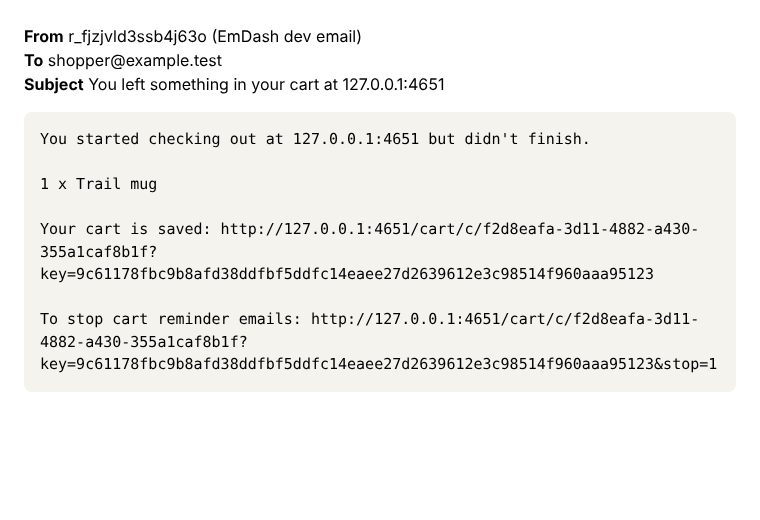
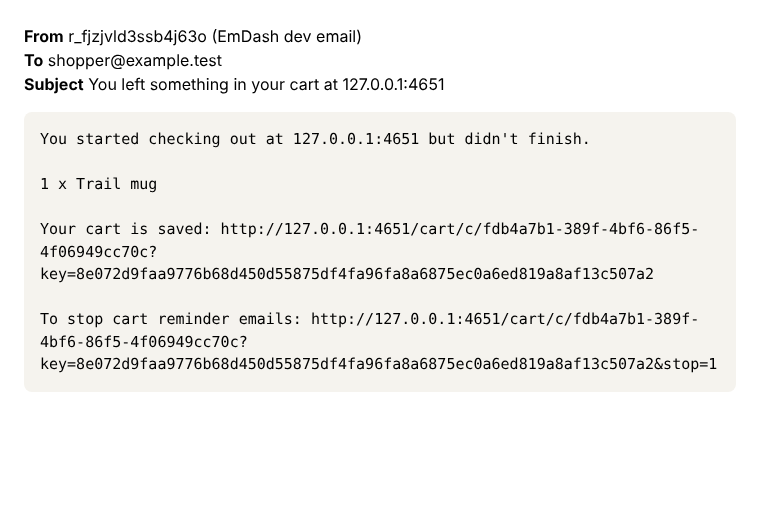
Keep the cart email's key dead for a cart made again under the same id
The emailed key now also keeps the checkout attempt the email was about,
and is accepted only while its cart still holds that attempt. A cart the
shopper's own key makes again after cleanup never revives it. The store
proof shows the old link opening an empty cart after that.

Claude-Session: https://claude.ai/code/session_01Vn8pk81E5mAR87Rnvjkb9R

diff --git a/src/features/checkout/capability.ts b/src/features/checkout/capability.ts
@@ -54,7 +54,7 @@ function parsePresentedCapability(token: string): { capabilityId: string; secret
 
 export async function mintGuestCapability(
   runtime: GuestCheckoutRuntime,
-  emailHash?: string,
+  email?: Pick<GuestCapabilityRecord, "emailHash" | "emailAttempt">,
 ): Promise<{ record: GuestCapabilityRecord; presentation: GuestCapabilityPresentation }> {
   const siteBinding = requireTrustedSiteOrigin(runtime);
   const capabilityId = (runtime.host.createCapabilityId ?? (() => crypto.randomUUID()))();
@@ -70,7 +70,7 @@ export async function mintGuestCapability(
     verifier: await hashGuestCapabilitySecret(secret),
     siteBinding,
     createdAt: new Date((runtime.host.now ?? (() => Date.now() / 1000))() * 1000).toISOString(),
-    ...emailHash ? { emailHash } : {},
+    ...email,
   };
   if (!(await runtime.capabilities.compareAndSet(capabilityId, null, record)).applied) {
     throw new GuestCheckoutError("CONTENTION");
@@ -110,9 +110,11 @@ export async function authorizeGuestCapability(
   if (!timingSafeEqual(stored.verifier, await hashGuestCapabilitySecret(secret))) {
     throw new GuestCheckoutError("CAPABILITY_DENIED");
   }
-  // The cart email's key lasts only as long as its cart, and never brings back a deleted one.
-  const cart = stored.emailHash && (await runtime.carts.getVersioned(stored.cartId))?.value;
-  if (stored.emailHash && !(cart && cart.cart && (runtime.host.now?.() ?? Date.now() / 1000) < +cart.cartExpires!)) {
+  // The cart email's key lasts only while its cart lives and still holds the emailed checkout: never past the
+  // cart's 30 days, and never for a cart made again under the same id.
+  const cart = stored.emailHash ? (await runtime.carts.getVersioned(stored.cartId))?.value : null;
+  if (stored.emailHash && !(cart?.cart && (runtime.host.now?.() ?? Date.now() / 1000) < +cart.cartExpires! &&
+    cart.attempts.some(attempt => attempt.attemptId === stored.emailAttempt))) {
     throw new GuestCheckoutError("CAPABILITY_DENIED");
   }
   return stored;

diff --git a/src/features/checkout/remind.ts b/src/features/checkout/remind.ts
@@ -30,7 +30,7 @@ export async function remindCarts(ctx: PluginContext, now: number): Promise<void
     // Claimed before sending, so a second run never sends it again.
     if (!(await carts.compareAndSet(id, found.revision, open ? { ...record, remindAt: String(now + 3600) } : { ...rest, ...send ? { emailed: true } : {} })).applied || !send) continue;
     const [capabilityId, key] = (await mintGuestCapability({ runtimeSiteUrl: origin, host: { createCartId: () => id },
-      capabilities: ctx.storage.checkout_guest_capabilities } as never, hash!)).presentation.capability.split(".");
+      capabilities: ctx.storage.checkout_guest_capabilities } as never, { emailHash: hash!, emailAttempt: attempt!.attemptId })).presentation.capability.split(".");
     const link = `${origin}/cart/c/${capabilityId}?key=${key}`, name = ctx.site.name || new URL(origin).host;
     // The items are listed when the cart still holds what the shopper took to checkout.
     const same = JSON.stringify(record.cart!.lines) === JSON.stringify(attempt!.cart);

diff --git a/src/features/checkout/types.ts b/src/features/checkout/types.ts
@@ -382,8 +382,12 @@ export interface GuestCapabilityRecord {
   verifier: string;
   siteBinding: string;
   createdAt: string;
-  /** Set on the cart email's key: the emailed address's stop key. That key lasts only as long as its cart. */
-  emailHash?: string;
+  /**
+   * Set on the cart email's key: the emailed address's stop key and the checkout the email was about. That key
+   * lasts only while its cart lives and still holds that checkout, so a cart made again under the same id never
+   * revives it.
+   */
+  emailHash?: string; emailAttempt?: string;
 }
 
 export interface GuestCheckoutHostOptions {

diff --git a/proof/abandoned-cart-email-20261122/PROOF.md b/proof/abandoned-cart-email-20261122/PROOF.md
@@ -27,6 +27,8 @@ merged in.
   the SHA-256 of the address the email went to, not the later checkout's.
 - With the cart's `cartExpires` moved into the past, the same email link opened an empty cart and the browser
   got no cart key.
+- The cleanup's delete of that cart was then applied, and the shopper's own browser filled a new cart under the
+  same id with its own key. The old email link still opened an empty cart and set no cart key.
 
 | Owner's setting | Checkout tick box (starts unticked) |
 | --- | --- |
@@ -43,6 +45,8 @@ merged in.
 | Stop after another link swapped the cart | The link after the cart's 30 days |
 | --- | --- |
 | ![changed](stop-link-changed-cart.png) | ![expired](link-after-cart-expired.png) |
+
+The link after the shopper made a new cart under the same id: `link-after-cart-made-again.png`.
 
 Desktop view of the link: `link-opens-cart-desktop.png`.
 
@@ -75,12 +79,12 @@ Traces: `upgrade-trace-bridge.json`, `upgrade-trace-new.json`. Settings after th
   checkout; the stop link stops later carts for that email in any letter case and needs the link's key; the
   three settings; paid, emptied and still-open checkouts get none and an open one is looked at an hour on;
   the tick must be `true`; a cart change keeps the reminder and drops the item list; the email's key is refused
-  once its cart's 30 days pass while the shopper's own key still answers, cannot bring back a deleted cart, and
+  once its cart's 30 days pass while the shopper's own key still answers, cannot bring back a deleted cart or reach one made again under the same id by the shopper's own key, and
   its stop stops the address it was sent to after a retry with another email, while the shopper's own key stops
   nothing).
 - `node --test tests/integration/*.test.mjs`: 111 pass.
 - `bin/verify-commerce checks`: passed.
-- Registry backend: 127,754 bytes on base `f8a0c0b` (was 125,973), 3,318 bytes left under 131,072.
+- Registry backend: 127,808 bytes on base `f8a0c0b` (was 125,973), 3,264 bytes left under 131,072.
 
 ## Not proved here
 

diff --git a/docs/implementation/guest-checkout-public.md b/docs/implementation/guest-checkout-public.md
@@ -200,10 +200,12 @@ removed and, when the owner's setting, the tick, an unpaid ended checkout, a
 non-empty cart and no stop for the email all allow it, the cart is marked
 `emailed` in the same write and one email goes through EmDash email with a
 freshly minted capability for the same cart as the `/cart/c/<id>?key=<secret>`
-link. That capability keeps the hash of the address it was sent to, and it
-lasts only as long as its cart: once the cart's `cartExpires` has passed, or
-the cart is gone, every guest route refuses it with `CAPABILITY_DENIED`, so it
-can neither read a kept paid order nor bring back a deleted cart. The
+link. That capability keeps the hash of the address it was sent to and the
+checkout attempt the email was about, and it lasts only while its cart lives
+and still holds that attempt: once the cart's `cartExpires` has passed, the
+cart is gone, or a new cart was made under the same id, every guest route
+refuses it with `CAPABILITY_DENIED`. It can neither read a kept paid order,
+bring back a deleted cart, nor reach a cart made again later. The
 shopper's own capability is unchanged. A cart marked `emailed` never gets
 `remindAt` again.
 Extra fields, including `lines`, `price`, `total`, `paymentState`,
